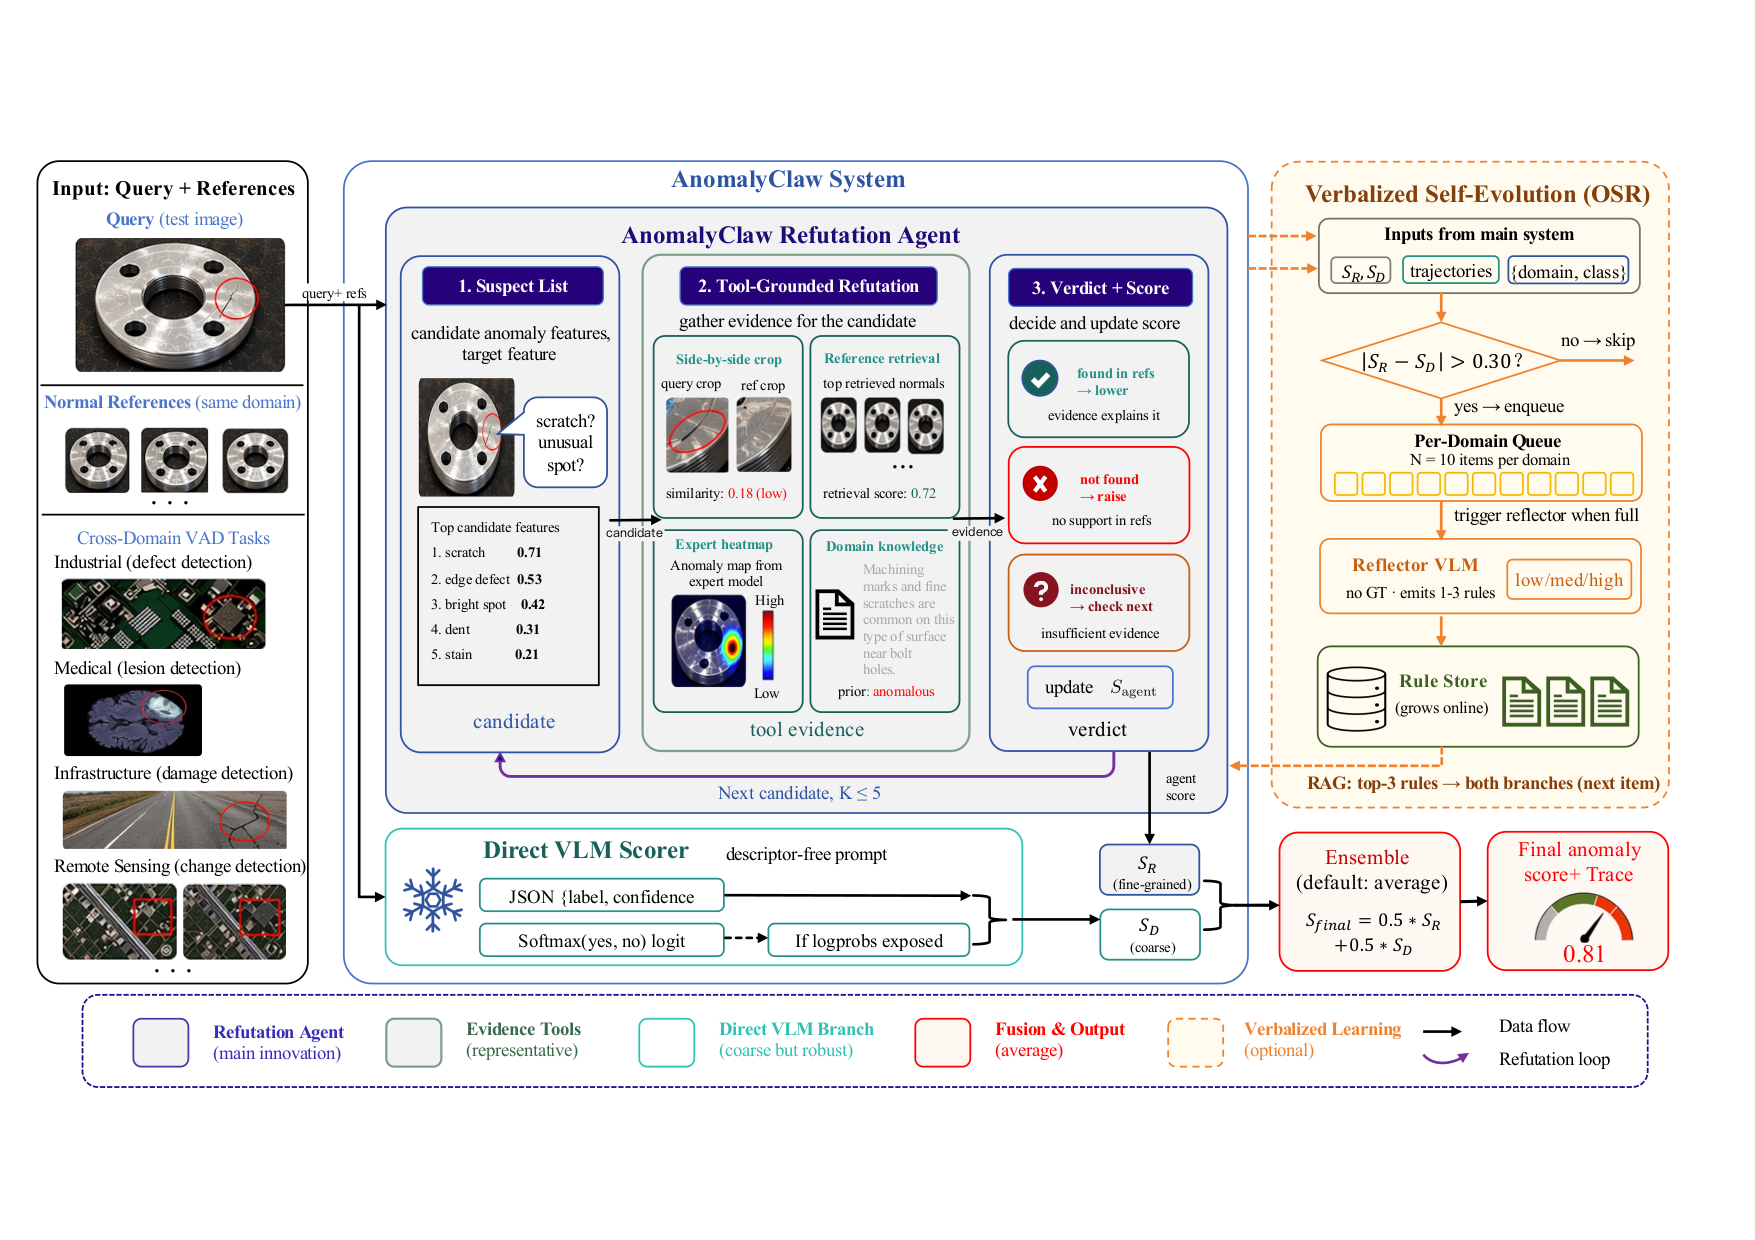
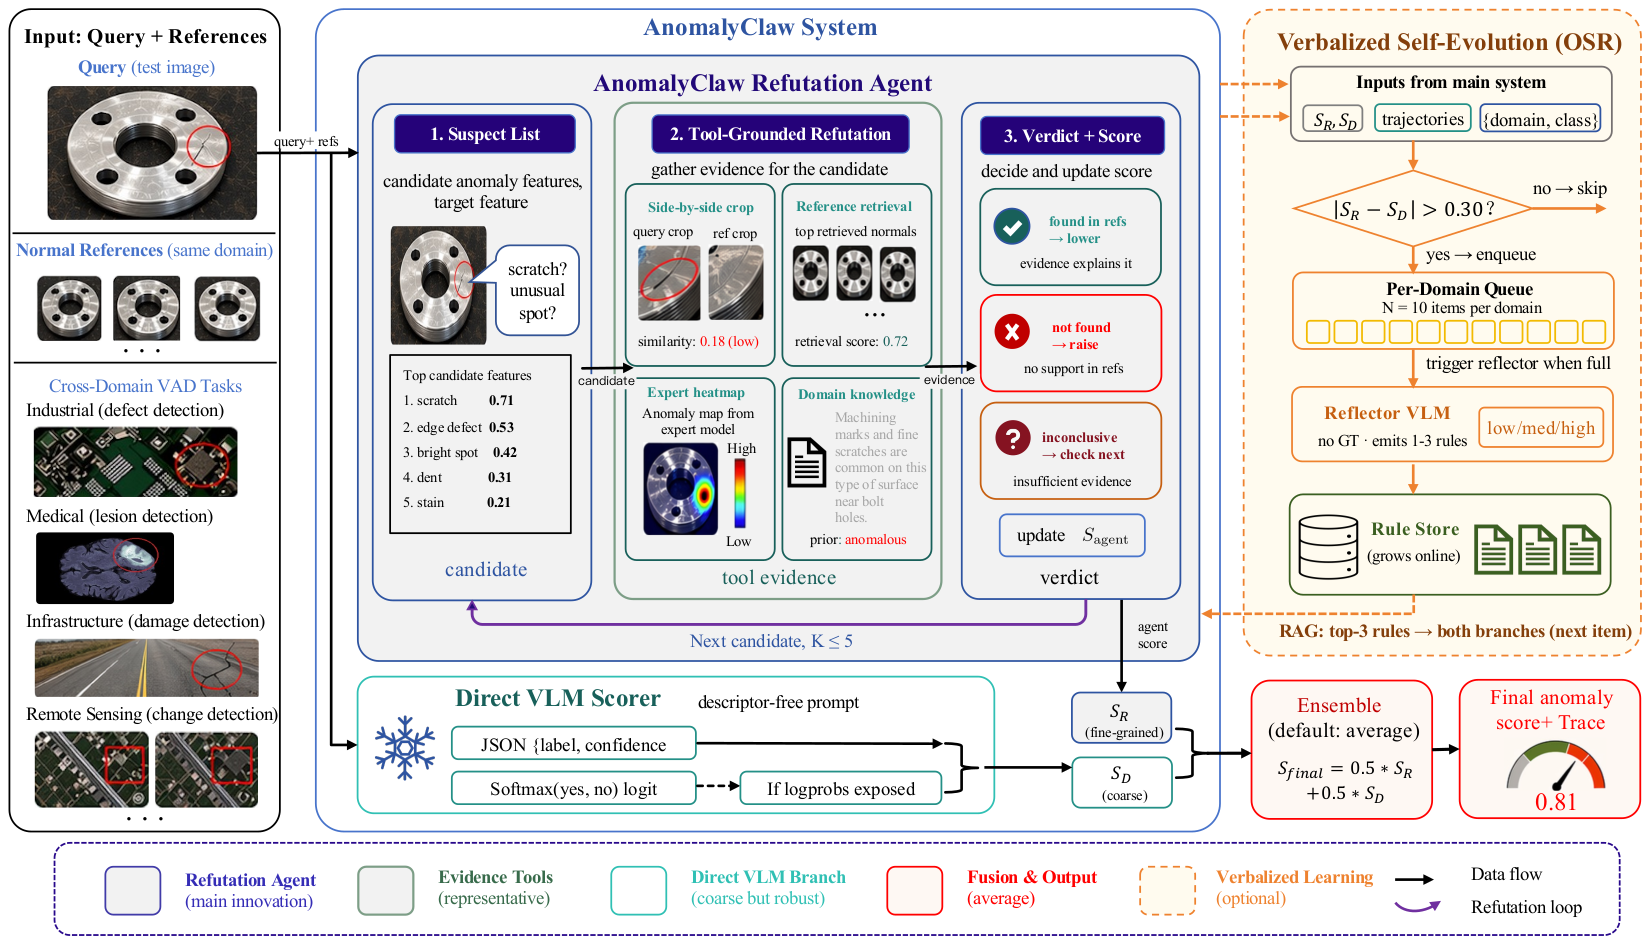
README/CITATION: add arXiv badge and update citation details
- Add arXiv:2605.10397 badge in the badge row (License, Python, PyTorch).
- News: replace "(under review)" with the arXiv release.
- BibTeX entry: switch to full arXiv form (eprint, archivePrefix, primaryClass, url).
- CITATION.cff: add top-level url + identifiers and drop the "Under review" note.
- assets/architecture.png: trim large white border (1755x1240 -> 1650x944).

diff --git a/README.md b/README.md
@@ -4,7 +4,7 @@
 
 ### A Universal Visual Anomaly Detection Agent via Tool-Grounded Refutation
 
-<!-- Replace with arXiv badge once submitted -->
+[![arXiv](https://img.shields.io/badge/arXiv-2605.10397-b31b1b.svg)](https://arxiv.org/abs/2605.10397)
 [![License](https://img.shields.io/badge/License-CC--BY--NC--4.0-lightgrey.svg)](LICENSE)
 [![Python](https://img.shields.io/badge/Python-3.10%2B-blue.svg)](https://www.python.org/)
 [![PyTorch](https://img.shields.io/badge/PyTorch-2.x-ee4c2c.svg)](https://pytorch.org/)
@@ -44,7 +44,7 @@ extension generates the agent's own rulebook online with *zero oracle labels*.
 ## 🚧 News
 
 - **2026-05** — Code, benchmark manifests, and pre-computed result tables released.
-- *(under review)* — Paper submission.
+- **2026-05** — Preprint available on [arXiv:2605.10397](https://arxiv.org/abs/2605.10397).
 
 ## 🧠 Method
 
@@ -266,10 +266,14 @@ datasets and expert baselines retain their original licenses.
 
 ```bibtex
 @article{jiang2026anomalyclaw,
-  title   = {AnomalyClaw: A Universal Visual Anomaly Detection Agent via Tool-Grounded Refutation},
-  author  = {Jiang, Xi and Zhao, Yinjie and Yang, Zesheng and Zheng, Feng},
-  journal = {arXiv preprint},
-  year    = {2026}
+  title         = {AnomalyClaw: A Universal Visual Anomaly Detection Agent via Tool-Grounded Refutation},
+  author        = {Jiang, Xi and Zhao, Yinjie and Yang, Zesheng and Zheng, Feng},
+  journal       = {arXiv preprint arXiv:2605.10397},
+  year          = {2026},
+  eprint        = {2605.10397},
+  archivePrefix = {arXiv},
+  primaryClass  = {cs.CV},
+  url           = {https://arxiv.org/abs/2605.10397}
 }
 ```
 
